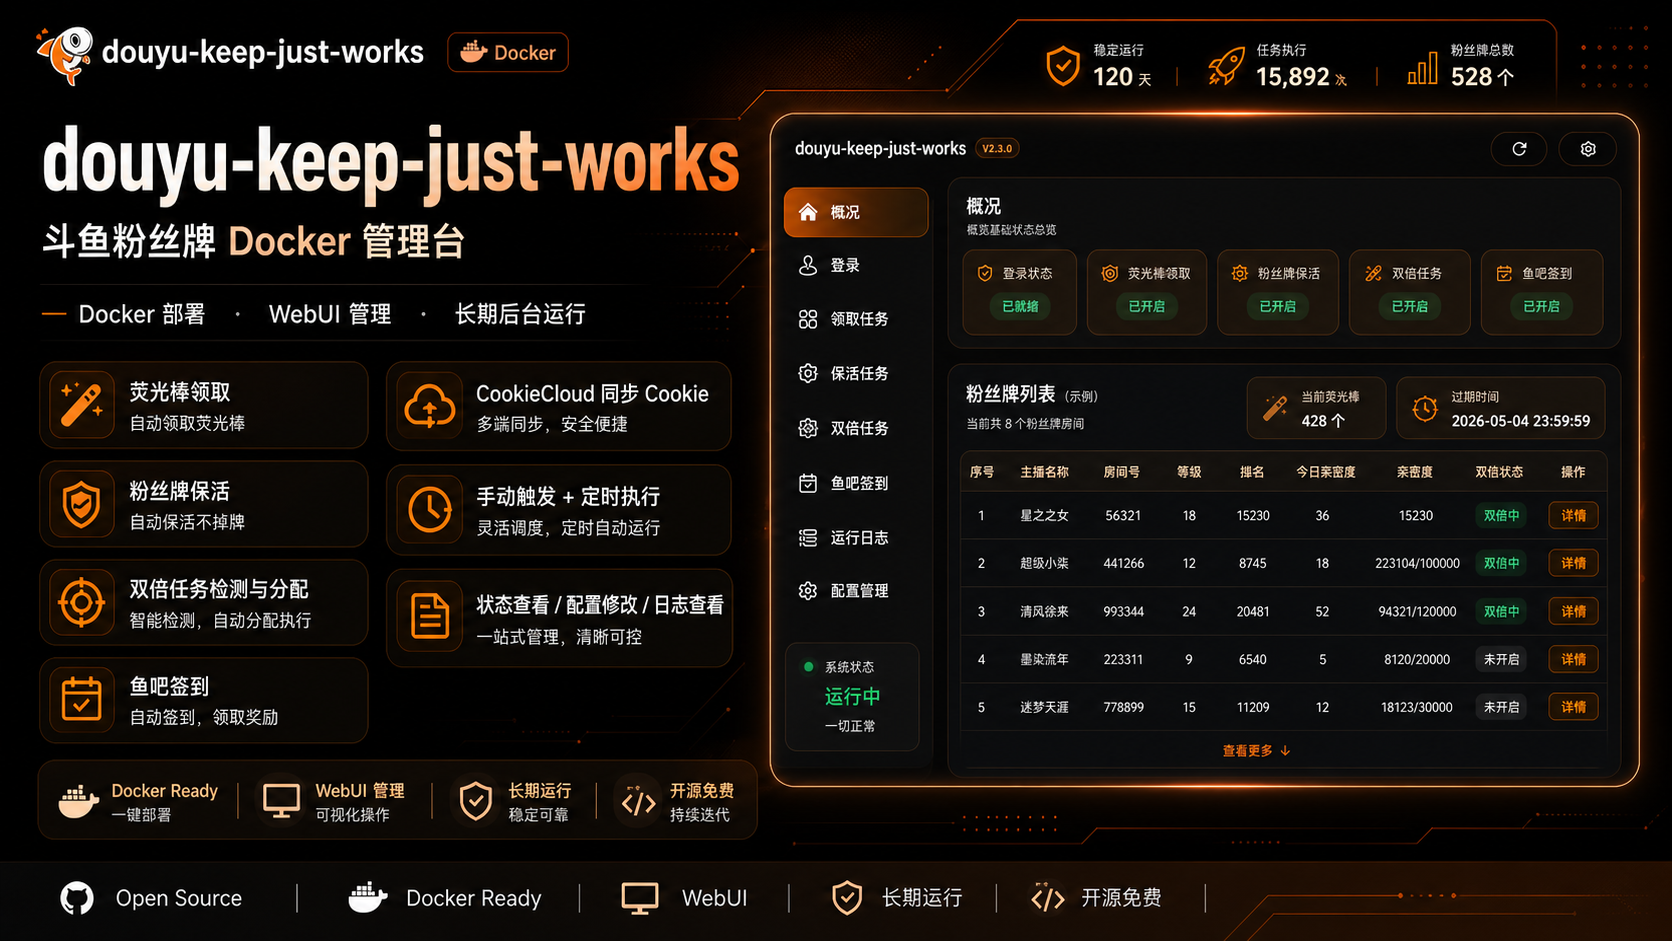
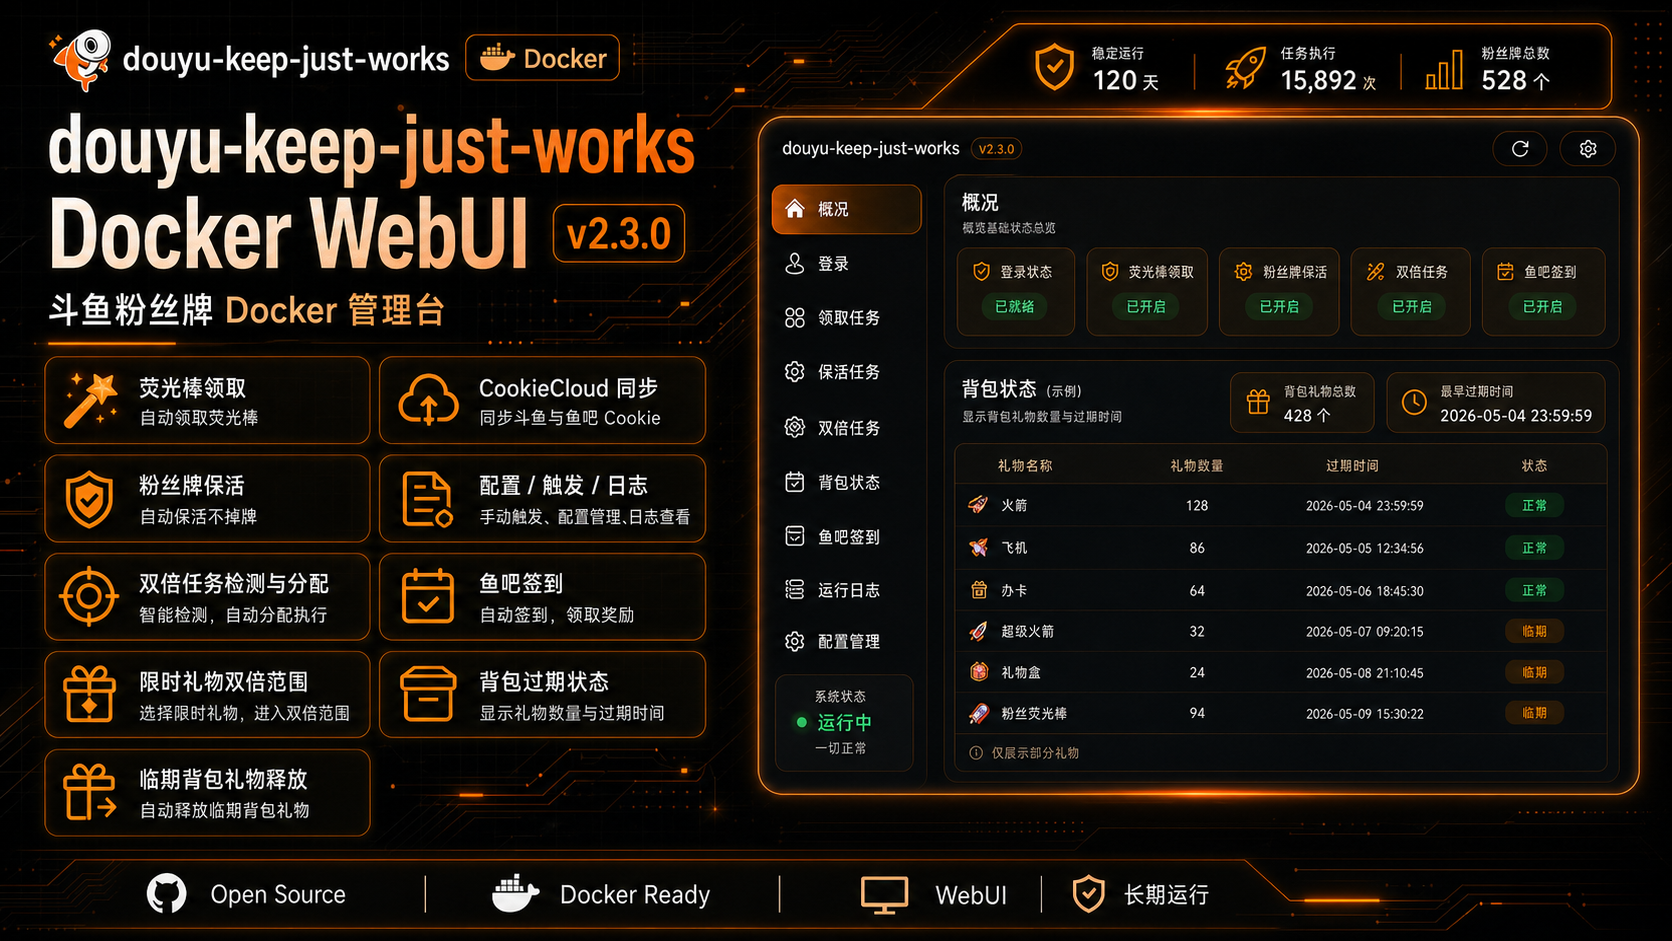
Refresh README intro and poster

Changed region(s): [[0.0, 0.0, 1.0, 1.0], [0.0, 0.0308, 0.3732, 0.0925]]

diff --git a/README.md b/README.md
@@ -14,10 +14,12 @@
 
 - 荧光棒领取
 - 粉丝牌保活
-- 双倍任务检测与分配
-- 临期荧光棒自动赠送
+- 双倍任务检测与分配，可选择荧光棒或限时背包礼物范围
+- 临期背包礼物自动释放/赠送，按过期阈值处理有明确过期时间的礼物
+- 背包礼物数量、过期时间、临期状态和自动释放状态查看
 - 鱼吧签到
-- CookieCloud 同步斗鱼相关 Cookie
+- CookieCloud 同步斗鱼主站和鱼吧 Cookie
+- WebUI 配置编辑、手动触发和日志查看
 
 ## Docker 部署
 